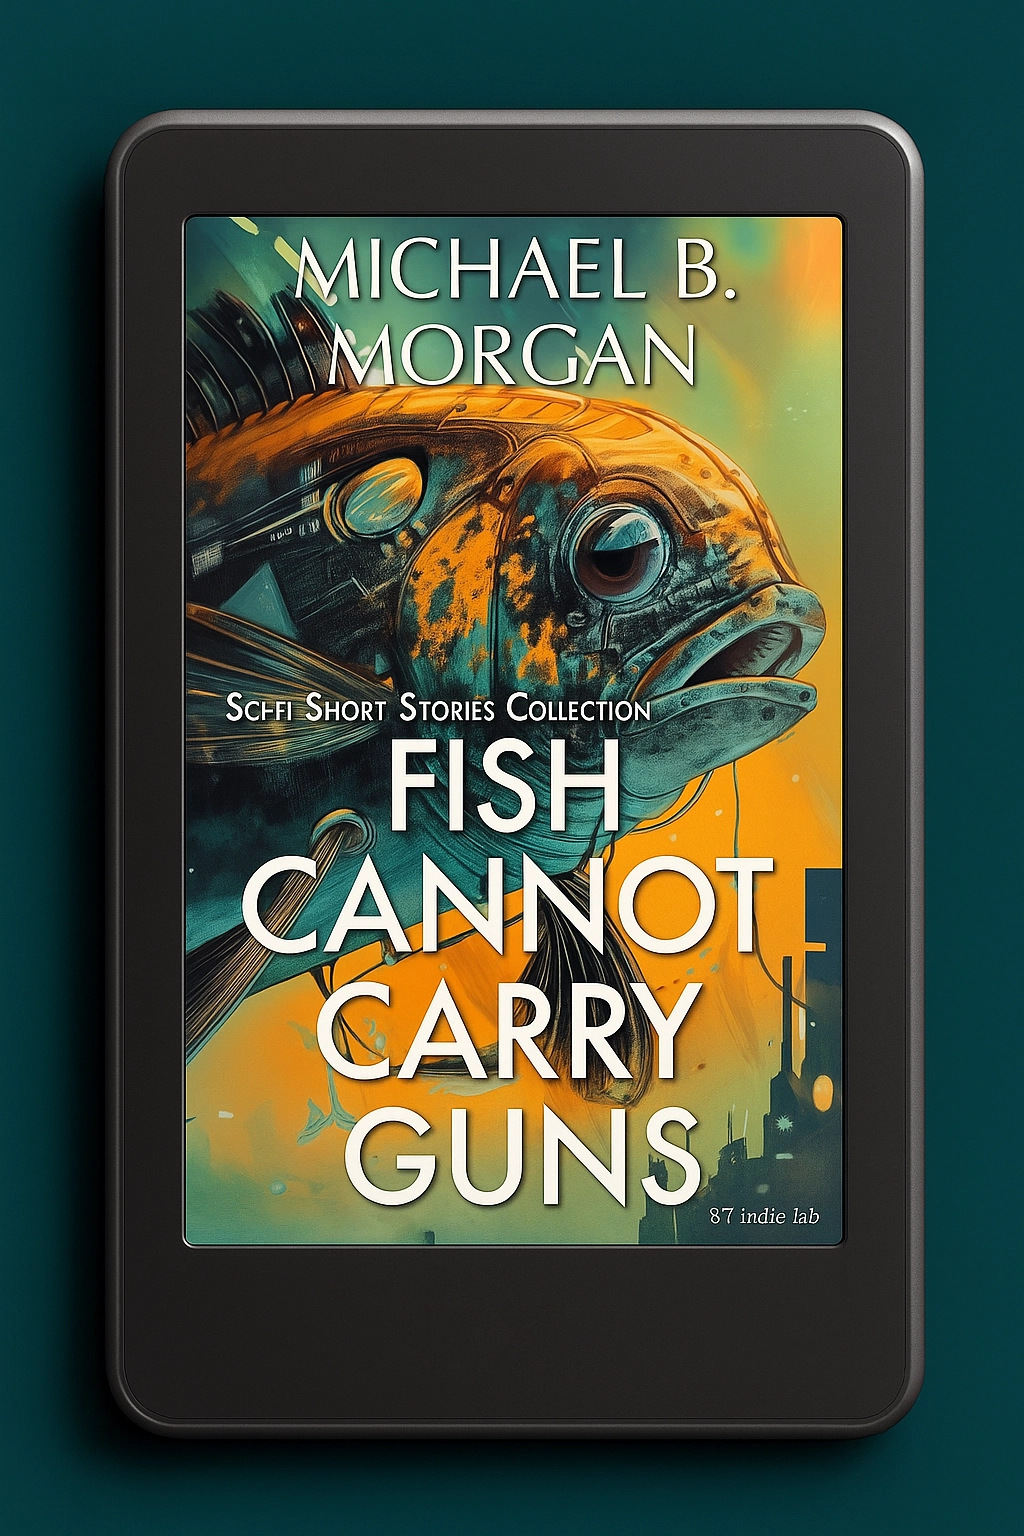
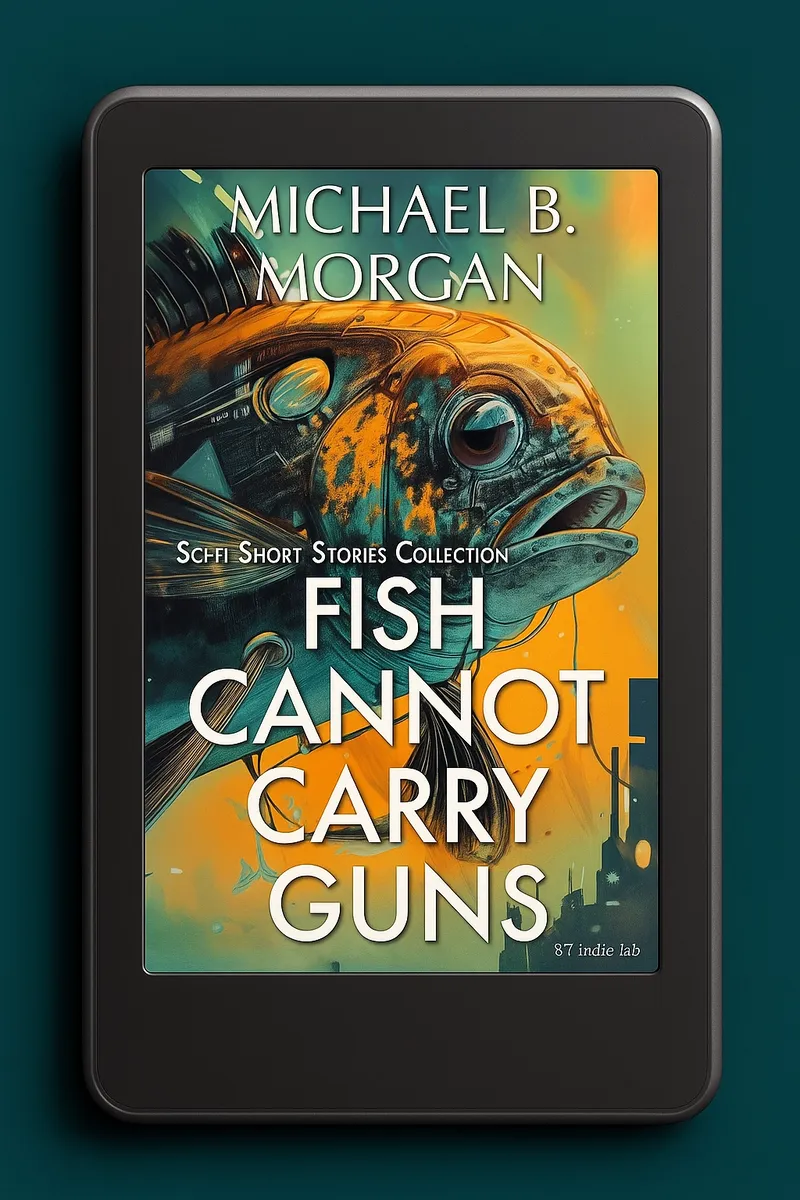
Optimize book cover image: compress from 612KB to 99KB and add responsive images with picture element

diff --git a/app/page.tsx b/app/page.tsx
@@ -91,11 +91,24 @@ export default function Home() {
             <div className="space-y-4 sm:space-y-6">
               <div className="bg-[#073E44] backdrop-blur-sm rounded-lg shadow-xl p-4 sm:p-8 text-center border border-teal-700/50">
                 <div className="w-64 sm:w-80 md:w-96 mx-auto bg-gradient-to-br from-teal-800 to-cyan-800 rounded-lg shadow-lg mb-4 sm:mb-6 flex items-center justify-center">
-                  <img 
-                    src="/ebook_cover.webp" 
-                    alt="Fish Cannot Carry Guns - Book Cover" 
-                    className="w-full h-full object-cover rounded-lg"
-                  />
+                  <picture>
+                    <source 
+                      media="(min-width: 768px)" 
+                      srcSet="/ebook_cover.webp"
+                    />
+                    <source 
+                      media="(min-width: 640px)" 
+                      srcSet="/ebook_cover_medium.webp"
+                    />
+                    <img 
+                      src="/ebook_cover_small.webp" 
+                      alt="Fish Cannot Carry Guns - Book Cover" 
+                      className="w-full h-full object-cover rounded-lg"
+                      loading="lazy"
+                      decoding="async"
+                      fetchPriority="high"
+                    />
+                  </picture>
                 </div>
                 <h2 className="text-xl sm:text-2xl font-bold text-white mb-4">Download Your Free Copy</h2>
                 {!isSubmitted ? (
@@ -276,7 +289,7 @@ export default function Home() {
             
             <div className="space-y-4 text-sm">
               <p className="text-teal-100">
-                We've sent your free sample to <span className="font-semibold text-white">{email}</span>
+                We've sent your free copy to <span className="font-semibold text-white">{email}</span>
               </p>
               
               <div className="bg-amber-900/30 border border-amber-700 rounded-lg p-3">
